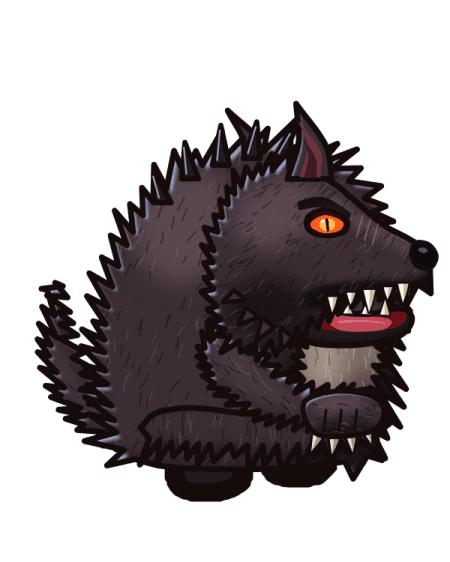
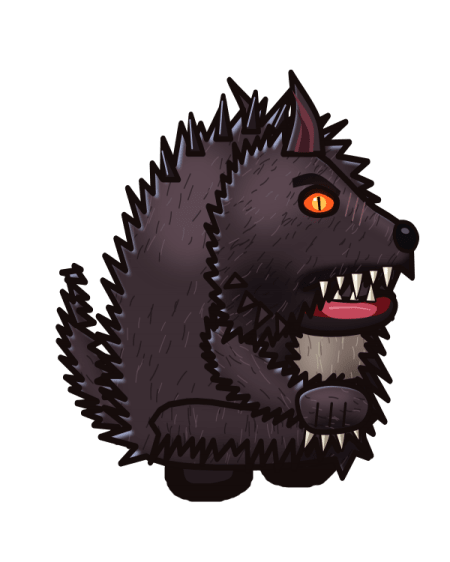
Full Release: Faker, Audit- und Logik-Durchgang, neue Huete, Knopf-Animationen bei Bedarf; version 1.3.0
Fasst die Testversionen 1.2.14.1 bis 1.2.14.9 zum Full Release zusammen und bringt zwei Aenderungen
vom 08./09.10. mit.

Neu in diesem Commit
- Knopf-Animationen laden erst bei Bedarf (UCButtonAnim): bisher las UC in der ersten Runde alle
  23 Sets (416 Bilder, 33,8 MB Pixel) und hielt sie die ganze Sitzung, egal welche Rollen im Spiel
  waren. Jetzt merkt sich BuildMap nur, welches Symbol zu welchem Set gehoert; die 16 Bilder eines
  Sets werden gelesen, wenn ein Knopf mit diesem Symbol sichtbar ist (TOR legt die Knoepfe aller
  Rollen an und blendet fremde aus, deshalb erst nach der Sichtbarkeitspruefung). Fehlen Bilder,
  bleibt wie bisher das feste Symbol. Im Halloween-Selbsttest wurde 1 von 23 Sets geladen.
- Werwolf-Hut: Steh- und Laufbilder (werewolf_1..16, werewolf_walk_1..12) nachjustiert, Stand 08.10.

Zusammengefasst aus den Testversionen
- Neue Impostor-Rolle Faker (1.2.14.9, Optionen 1794-1799, Modul 231).
- Vollaudit (22 Fixes, 1.2.14.1) und Logik-Durchgang (121 Punkte, 1.2.14.2): Medic-Schild haelt
  standardmaessig gegen Tesla und Saboteur-Falle, Poisoner braucht einen Heiler (1437), Werwolf
  frueheste Verwandlungsrunde (1784), Neutrale duerfen Lovers sein, Gambler/Hypnotist/Saboteur/
  Tesla/Stalker ueberarbeitet, Uebersetzungen in allen Sprachen vollstaendig.
- Neu gemalte Huete (Virus, Werbetafel, Werwolf, Monster Hunter) mit 16-Bild-Schleifen und
  Laufanimation (1.2.14.3), Auditor-Option auf ID 1599 (Kollision mit 1610 behoben).
[…]

Changed region(s): [[0.0622, 0.121, 0.9956, 0.8772], [0.5289, 0.3932, 0.6222, 0.4537]]

diff --git a/UCButtonAnim.cs b/UCButtonAnim.cs
@@ -34,7 +34,11 @@ namespace UnknownsCollection {
 
         private static readonly int DesatId = Shader.PropertyToID("_Desat");
 
-        private sealed class AnimSet { public Sprite[] frames; }
+        // Frames load on first use (09.10.): BuildMap only notes which static icon belongs to which loop; the 16
+        // frames of a set are read when a button with that icon is actually on screen. Before, all 25 sets
+        // (416 frames, 33,8 MB of pixels) were loaded in the first round whatever roles were in play, for a
+        // player who usually has none to two animated UC buttons.
+        private sealed class AnimSet { public Sprite[] frames; public string baseName; public float ppu; public bool failed; }
 
         // sprite instance-id -> animation set (static icon and all 16 frames map to the same set)
         private static Dictionary<int, AnimSet> frameMap;
@@ -71,6 +75,8 @@ namespace UnknownsCollection {
                 if (!frameMap.TryGetValue(btn.Sprite.GetInstanceID(), out var set)) continue;
                 var go = btn.actionButtonGameObject;
                 if (go == null || !go.activeSelf) continue; // hidden (meeting/dead/no role): skip
+                // only now: TOR creates the buttons of EVERY role and hides those the player does not have
+                if (set.frames == null && !EnsureFrames(set)) continue;
 
                 int id = btn.actionButton.GetInstanceID();
 
@@ -127,15 +133,29 @@ namespace UnknownsCollection {
             int sets = 0;
             foreach (var (statik, baseName, ppu) in sources) {
                 if (statik == null) continue;                 // static icon missing -> nothing to match
-                var frames = UCAssets.GetFrames(baseName, ppu);
-                if (frames == null) continue;                 // frames missing -> button keeps static icon
-                var set = new AnimSet { frames = frames };
-                map[statik.GetInstanceID()] = set;
-                foreach (var f in frames) map[f.GetInstanceID()] = set;
+                map[statik.GetInstanceID()] = new AnimSet { baseName = baseName, ppu = ppu };
                 sets++;
             }
             if (sets > 0) frameMap = map;
-            UnknownsCollectionPlugin.Logger?.LogInfo($"[UCButtonAnim] animated icon sets loaded: {sets}/{sources.Length}");
+            UnknownsCollectionPlugin.Logger?.LogInfo($"[UCButtonAnim] animated icon sets registered: {sets}/{sources.Length} (frames load on first use)");
+        }
+
+        /// <summary>Load a set's 16 frames the first time its button shows. Missing frames: the button keeps its
+        /// static icon for the rest of the session (tried once, like the old eager load).</summary>
+        private static bool EnsureFrames(AnimSet set) {
+            if (set.frames != null) return true;
+            if (set.failed) return false;
+            var frames = UCAssets.GetFrames(set.baseName, set.ppu);
+            if (frames == null) {
+                set.failed = true;
+                UnknownsCollectionPlugin.Logger?.LogWarning($"[UCButtonAnim] frames missing for {set.baseName}, static icon stays");
+                return false;
+            }
+            set.frames = frames;
+            // the button now cycles through these sprites: each must find its set again
+            foreach (var f in frames) if (f != null) frameMap[f.GetInstanceID()] = set;
+            UnknownsCollectionPlugin.Logger?.LogInfo($"[UCButtonAnim] loaded frames for {set.baseName}");
+            return true;
         }
     }
 }

diff --git a/UnknownsCollectionPlugin.cs b/UnknownsCollectionPlugin.cs
@@ -39,7 +39,7 @@ public class UnknownsCollectionPlugin : BasePlugin
 {
     public const string PluginGuid = "com.tormod.unknownscollection";
     public const string PluginName = "Unknown's Collection";
-    public const string PluginVersion = "1.2.14.9";
+    public const string PluginVersion = "1.3.0";
     public static readonly System.Version Version = System.Version.Parse(PluginVersion);
 
     // MODULE BYTES, not callIds (since the RPC consolidation).
